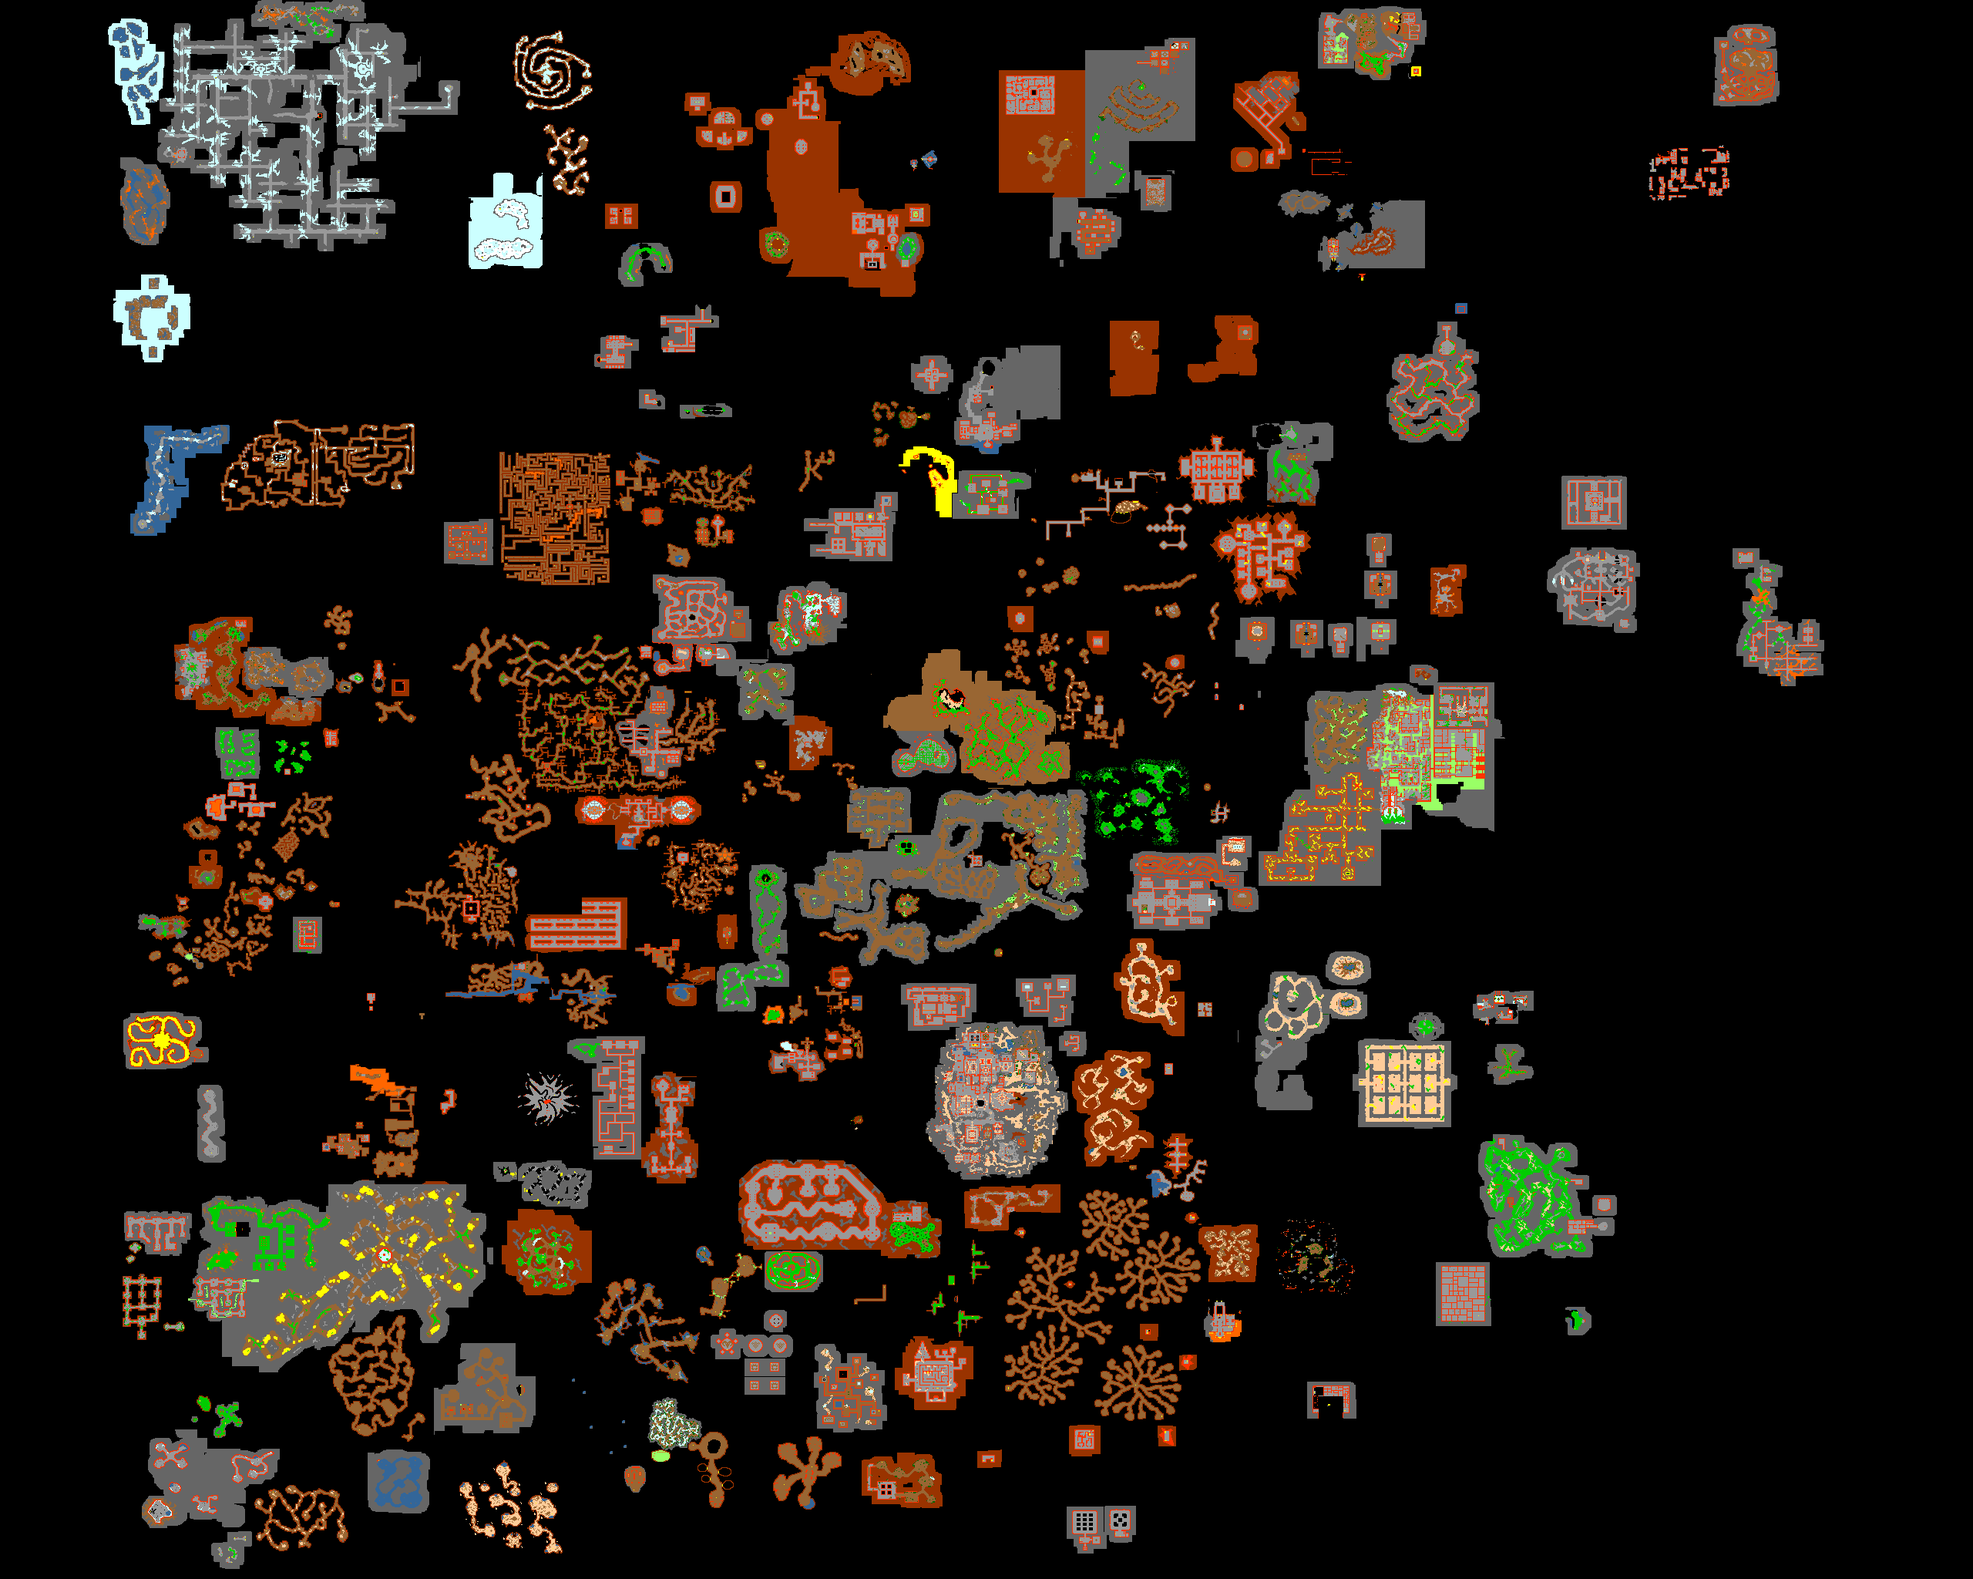
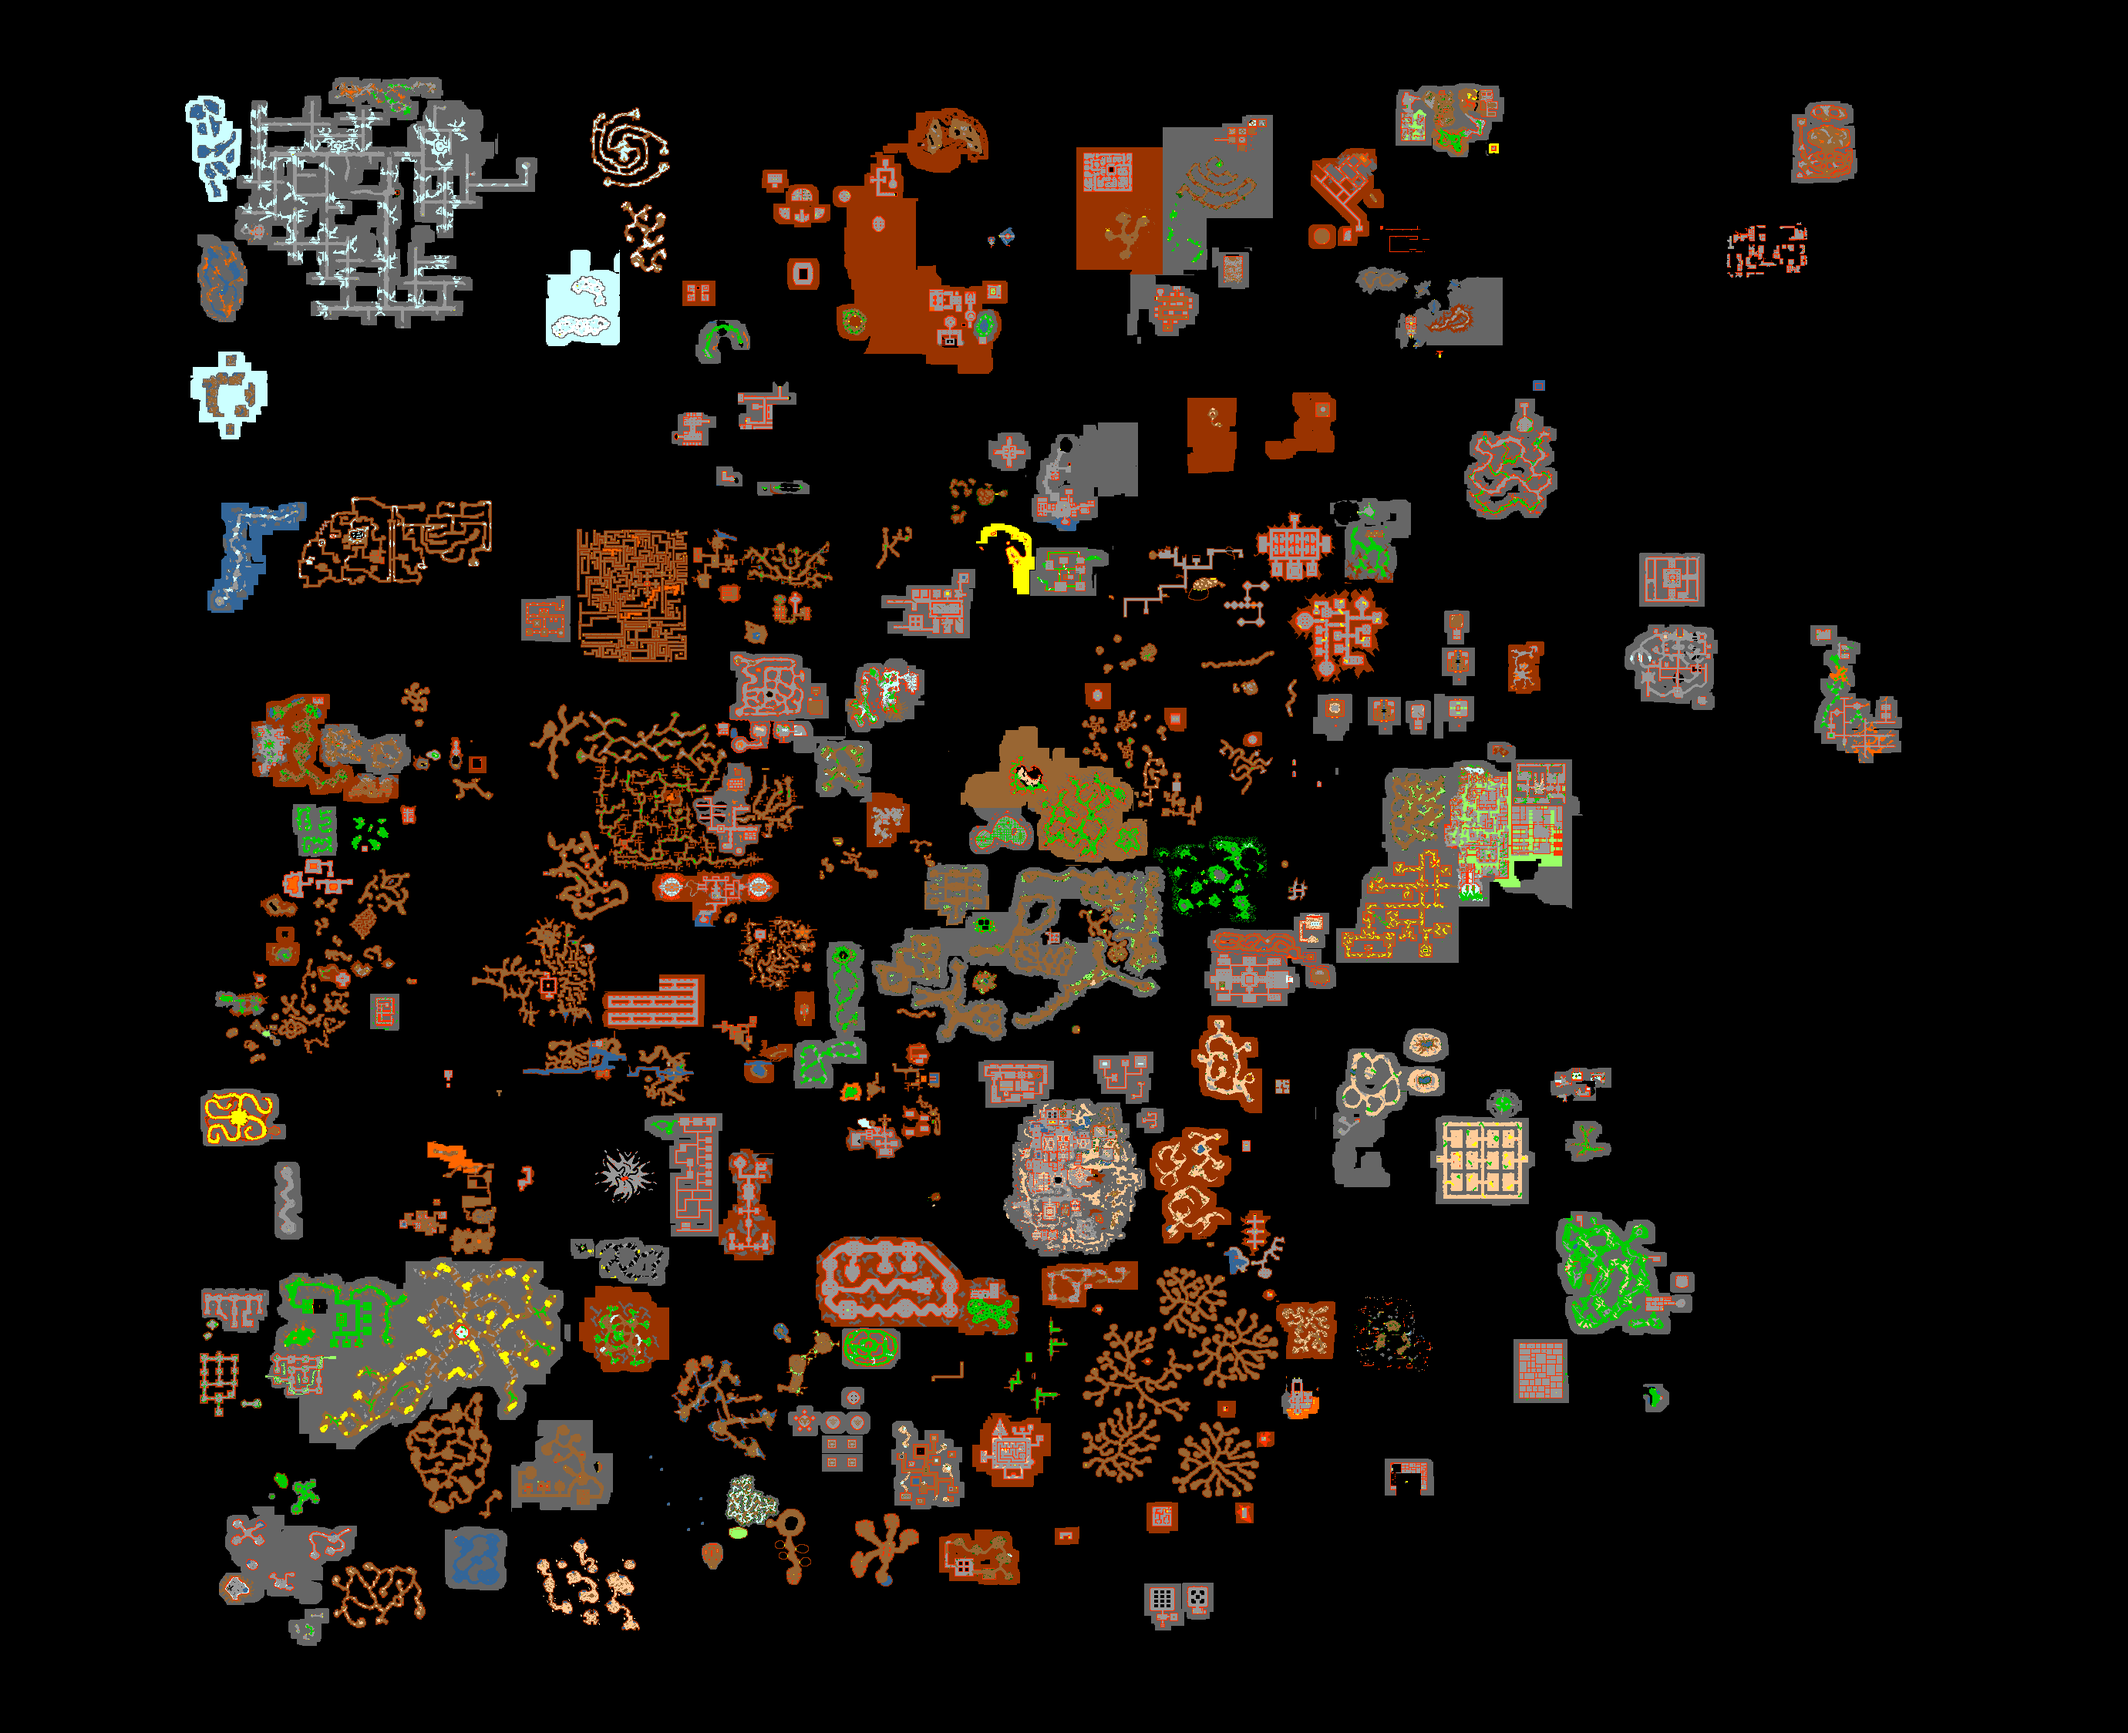
coordinate fix by add black border

Changed region(s): [[0.0312, 0.0, 0.9375, 1.0], [0.8125, 0.0, 0.9062, 0.1562], [0.6562, 0.8438, 0.6875, 0.9062]]

diff --git a/src/repositories/map/core.py b/src/repositories/map/core.py
@@ -4,6 +4,7 @@ from typing import Union
 from src.utils.typings import Coordinate, GrayImage, GrayPixel, Waypoint, WaypointList
 from src.utils.core import hashit, hashitHex, locate
 from src.utils.coordinate import getCoordinateFromPixel, getPixelFromCoordinate
+from src.utils.image import save
 from .config import availableTilesFrictions, breakpointTileMovementSpeed, coordinates, dimensions, floorsImgs, floorsLevelsImgsHashes, floorsPathsSqms, nonWalkablePixelsColors, tilesFrictionsWithBreakpoints, walkableFloorsSqms
 from .extractors import getMapImage
 from .locators import getMapToolsPosition
@@ -26,32 +27,9 @@ def getCoordinate(screenshot: GrayImage, previousCoordinate: Coordinate = None) 
     if MapHashedImg in coordinates:
         return coordinates[MapHashedImg]
     if previousCoordinate is not None:
-        try:
-            (previousCoordinateXPixel, previousCoordinateYPixel) = getPixelFromCoordinate(
-                previousCoordinate)
-            paddingSize = 20
-            yStart = previousCoordinateYPixel - \
-                (dimensions['halfHeight'] + paddingSize)
-            yEnd = previousCoordinateYPixel + \
-                (dimensions['halfHeight'] + 1 + paddingSize)
-            xStart = previousCoordinateXPixel - \
-                (dimensions['halfWidth'] + paddingSize)
-            xEnd = previousCoordinateXPixel + \
-                (dimensions['halfWidth'] + paddingSize)
-            areaImgToCompare = floorsImgs[floorLevel][yStart:yEnd, xStart:xEnd]
-            areaFoundImg = locate(
-                areaImgToCompare, MapImage, confidence=0.9)
-            if areaFoundImg:
-                currentCoordinateXPixel = previousCoordinateXPixel - \
-                    paddingSize + areaFoundImg[0]
-                currentCoordinateYPixel = previousCoordinateYPixel - \
-                    paddingSize + areaFoundImg[1]
-                (currentCoordinateX, currentCoordinateY) = getCoordinateFromPixel(
-                    (currentCoordinateXPixel, currentCoordinateYPixel))
-                return (currentCoordinateX, currentCoordinateY, floorLevel)
-        except:
-            print("exception in previousCoordinate")
-            previousCoordinate = None
+        prevCoord = findCoordinateFromPreviousPosition(screenshot, previousCoordinate, MapImage, floorLevel)
+        if prevCoord is not None:
+            return prevCoord
     imgCoordinate = locate(floorsImgs[floorLevel], MapImage, confidence=0.75)
     if imgCoordinate is None:
         return None
@@ -61,6 +39,44 @@ def getCoordinate(screenshot: GrayImage, previousCoordinate: Coordinate = None) 
         (xImgCoordinate, yImgCoordinate))
     return (xCoordinate, yCoordinate, floorLevel)
 
+
+def findCoordinateFromPreviousPosition(screenshot: GrayImage, previousCoordinate: Coordinate, mapImage: GrayImage, floorLevel: int) -> Union[Coordinate, None]:
+    try:
+        (previousCoordinateXPixel, previousCoordinateYPixel) = getPixelFromCoordinate(
+            previousCoordinate)
+        (yStart, yEnd, xStart, xEnd, paddings) = getPaddings(previousCoordinateXPixel, previousCoordinateYPixel)
+        areaImgToCompare = floorsImgs[floorLevel][yStart:yEnd, xStart:xEnd]
+        areaFoundImg = locate(
+            areaImgToCompare, mapImage, confidence=0.9)
+        if areaFoundImg:
+            currentCoordinateXPixel = previousCoordinateXPixel - \
+                paddings["xStart"] + areaFoundImg[0]
+            currentCoordinateYPixel = previousCoordinateYPixel - \
+                paddings["yStart"] + areaFoundImg[1]
+            (currentCoordinateX, currentCoordinateY) = getCoordinateFromPixel(
+                (currentCoordinateXPixel, currentCoordinateYPixel))
+            return (currentCoordinateX, currentCoordinateY, floorLevel)
+        else:
+            print("didnt fint img")
+    except:
+        print("exception in previousCoordinate")
+        return None
+
+def getPaddings(previousCoordinateXPixel: int, previousCoordinateYPixel: int) -> tuple:
+    
+    paddings = {"yStart": 20, "xStart": 20, "yEnd": 20, "xEnd": 20}
+    yStart = previousCoordinateYPixel - \
+        (dimensions['halfHeight'] + paddings["yStart"])
+    if yStart < 0: # this will have to be applied to all edges later, not just top.
+        yStart = 0
+        paddings["yStart"] = 0
+    yEnd = previousCoordinateYPixel + \
+        (dimensions['halfHeight'] + 1 + paddings["yEnd"])
+    xStart = previousCoordinateXPixel - \
+        (dimensions['halfWidth'] + paddings["xStart"])
+    xEnd = previousCoordinateXPixel + \
+        (dimensions['halfWidth'] + paddings["xEnd"])
+    return (yStart, yEnd, xStart, xEnd, paddings)
 
 # TODO: add unit tests
 # TODO: add perf

diff --git a/src/utils/coordinate.py b/src/utils/coordinate.py
@@ -29,8 +29,8 @@ def getAvailableAroundCoordinates(coordinate: Coordinate, walkableFloorSqms: np.
     aroundPixelsCoordinates = getAroundPixelsCoordinates(pixelCoordinate)
     availableAroundPixelsCoordinates = getAvailableAroundPixelsCoordinates(
         aroundPixelsCoordinates, walkableFloorSqms)
-    xCoordinates = availableAroundPixelsCoordinates[:, 0] + 31744
-    yCoordinates = availableAroundPixelsCoordinates[:, 1] + 30976
+    xCoordinates = availableAroundPixelsCoordinates[:, 0] + 31844 # added 100 px border on all sides, 31744, 30976
+    yCoordinates = availableAroundPixelsCoordinates[:, 1] + 31076 
     floors = np.broadcast_to(
         coordinate[2], (availableAroundPixelsCoordinates.shape[0]))
     return np.column_stack(
@@ -47,7 +47,7 @@ def getClosestCoordinate(coordinate: Coordinate, coordinates: CoordinateList) ->
 
 
 def getCoordinateFromPixel(pixel: XYCoordinate) -> Coordinate:
-    return pixel[0] + 31744, pixel[1] + 30976
+    return pixel[0] + 31844, pixel[1] + 31076 # added 100 px border on all sides, 31744, 30976
 
 
 def getDirectionBetweenCoordinates(coordinate: Coordinate, nextCoordinate: Coordinate) -> Union[str, None]:
@@ -62,4 +62,4 @@ def getDirectionBetweenCoordinates(coordinate: Coordinate, nextCoordinate: Coord
 
 
 def getPixelFromCoordinate(coordinate: Coordinate) -> XYCoordinate:
-    return coordinate[0] - 31744, coordinate[1] - 30976
+    return coordinate[0] - 31844, coordinate[1] - 31076 # added 100 px border on all sides, 31744, 30976

diff --git a/src/repositories/map/images/addBlackOffset.py b/src/repositories/map/images/addBlackOffset.py
@@ -1,0 +1,26 @@
+import os
+import cv2
+import numpy as np
+from PIL import Image, ImageOps
+
+
+# Get the directory of the script
+script_directory = os.path.dirname(os.path.abspath(__file__))
+
+# Specify the border size
+border_size = 100
+
+# List all PNG files in the script's directory
+png_files = [file for file in os.listdir(script_directory) if file.endswith('.png')]
+
+for file_name in png_files:
+    # Read the image with an alpha channel
+    image_path = os.path.join(script_directory, file_name)
+
+    # Save the new image
+    output_path = os.path.join(script_directory, f"{file_name}")
+    # cv2.imwrite(output_path, bordered_image, [cv2.IMWRITE_PNG_COMPRESSION, 0])  # Ensure PNG format and set compression to 0 for grayscale
+
+    ImageOps.expand(Image.open(image_path),border=100,fill='black').save(output_path)
+
+print("Borders added to all PNG files.")

diff --git a/src/gameplay/threads/gameThread.py b/src/gameplay/threads/gameThread.py
@@ -32,7 +32,7 @@ class GameThread:
                     pickUpLoot(self.context['pycwnd'])
                     self.context['trigger']['looting'] = False
 
-                # self.context = self.wrapUp(self.context)
+                self.context = self.wrapUp(self.context)
                 endTime = time()
                 diff = endTime - loop_time
                 sleep(max(0.045 - diff, 0))
@@ -47,7 +47,7 @@ class GameThread:
     def updateContext(self, context):
         context = updateScreenshotMiddleware(context)
         context = updatePlayerStatusMiddleware(context)
-        # context = updateMapMiddleware(context)
+        context = updateMapMiddleware(context)
         return context
     
         

diff --git a/builders/repositories/radar/buildRadarImagesCoordinates.py b/builders/repositories/radar/buildRadarImagesCoordinates.py
@@ -8,8 +8,8 @@ from src.utils.image import loadFromRGBToGray
 def main():
     floorLevel = 7
     coordinatesAsArray = np.array([], dtype=CoordinateHash)
-    startingXCoordinate = 31744
-    startingYCoordinate = 30976
+    startingXCoordinate = 31844 # added 100 px border on all sides, 31744, 30976
+    startingYCoordinate = 31076
     pixels = loadFromRGBToGray('radar/images/floor-7.png')
     for y, rowPixels in enumerate(pixels):
         for x, pixelColor in enumerate(rowPixels):
